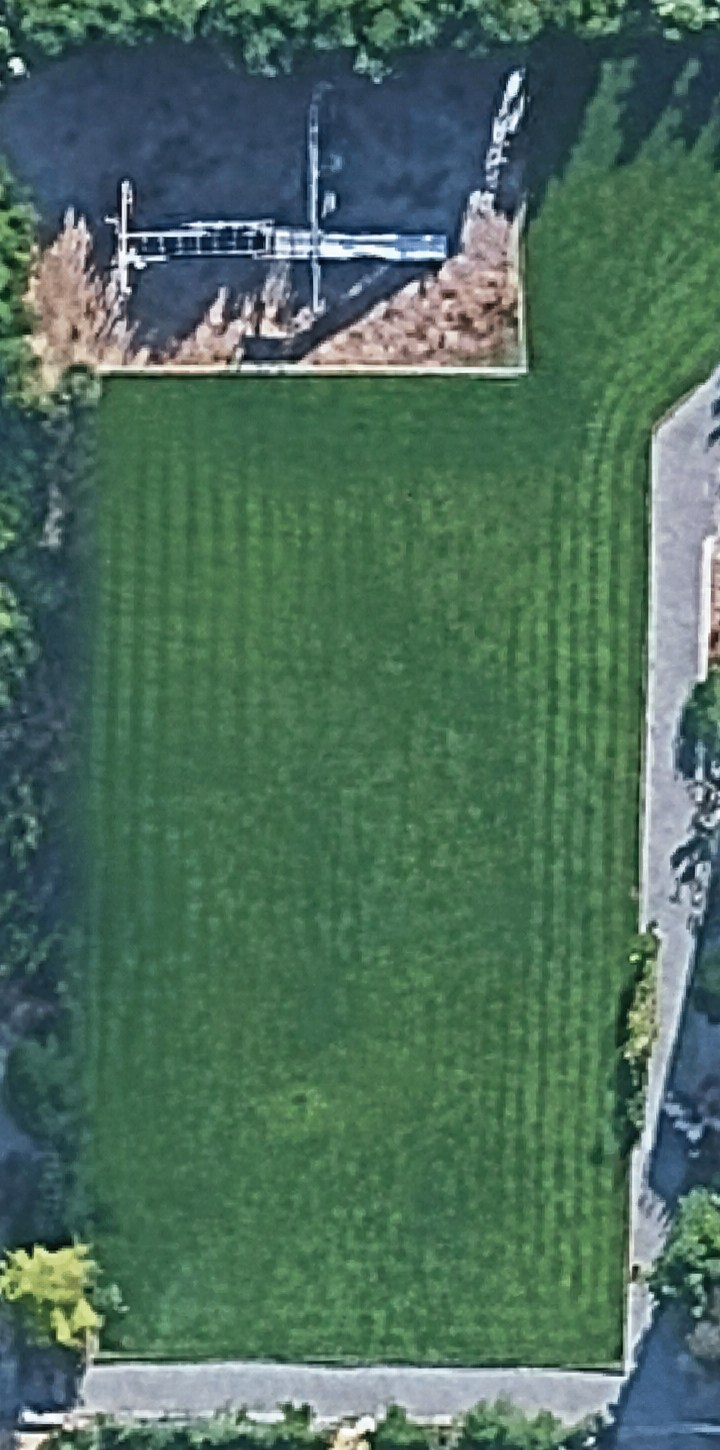
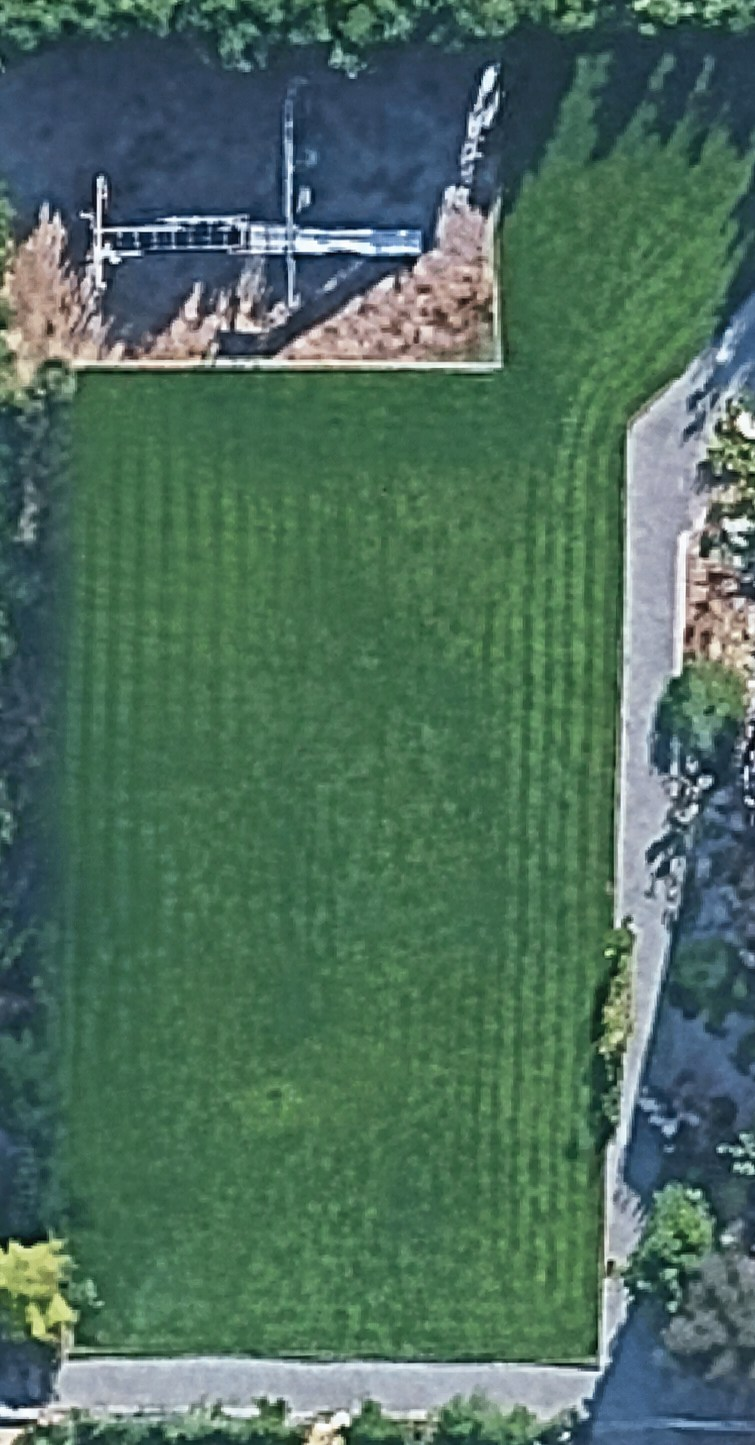
All grass past the goal scores: drop the back line, widen the crop
Re-cropped field.jpg 60px further right so the grass that flares out
beside the swing set is fully in frame, and trimmed a little dead tree
line off the left to pay for it. The line above the swing set is gone;
the goal line stays and now runs the full width of the grass at that
height, which is wider than the yard markers below it.

Landmark constants re-measured for the new framing, and a one-time
migration shifts any play or map saved against the old crop.

diff --git a/index.html b/index.html
@@ -101,10 +101,11 @@
    toward the swing set: left = tree line, right = gravel path / house,
    bottom = the walk behind the quarterback.
 -------------------------------------------------------------------*/
-var IMG = { w: 720, h: 1450 };
+var IMG = { w: 755, h: 1445 };
 
-/* landmarks measured off field.jpg, as fractions of its height/width */
-var F = { back: 0.125, goal: 0.2572, near: 0.9345, left: 0.139, right: 0.889 };
+/* landmarks measured off field.jpg, as fractions of its height/width.
+   There is no back line: every bit of grass past the goal line is a score. */
+var F = { goal: 0.2547, near: 0.9343, left: 0.0993, right: 0.8146 };
 
 var TAU = Math.PI * 2;
 var $ = function(s){ return document.querySelector(s); };
@@ -185,8 +186,8 @@ function redraw(){
   drawQB();
 }
 
-function hline(v, w, alpha, dash){
-  var a = S(F.left - 0.02, v), b = S(F.right + 0.02, v);
+function hline(v, w, alpha, dash, padR){
+  var a = S(F.left - 0.02, v), b = S(F.right + (padR || 0.02), v);
   ctx.save();
   ctx.setLineDash(dash || []);
   ctx.strokeStyle = 'rgba(0,0,0,.45)'; ctx.lineWidth = w + 2;
@@ -215,9 +216,10 @@ function fieldMarks(){
   tag(F.right - 0.09, F.goal + span * 0.75, '5 yd', 0.4);
   tag(F.right - 0.10, F.goal + span * 0.50, '10 yd', 0.4);
   tag(F.right - 0.10, F.goal + span * 0.25, '15 yd', 0.4);
-  hline(F.goal, 2.6, 0.85);
-  tag(F.right - 0.10, F.goal - 0.016, 'GOAL', 0.85, 11);
-  hline(F.back, 1.6, 0.4);
+  /* the yard flares out to the right up by the swing set, so the goal line has
+     to run further than the yard markers do */
+  hline(F.goal, 2.6, 0.85, null, 0.105);
+  tag(F.right - 0.12, F.goal - 0.017, 'GOAL', 0.85, 11);
   /* line of scrimmage follows the quarterback */
   hline(play.qb[1], 1.4, 0.34, [3, 6]);
 }
@@ -520,7 +522,26 @@ document.addEventListener('visibilitychange', function(){
   if (document.visibilityState === 'visible') keepAwake();
 });
 
-loadPlay(); loadMap();
+/* field.jpg was re-cropped wider on the right; anything saved against the old
+   crop has to be shifted or it would sit a couple of yards off the yard. */
+function migrateCrop(){
+  var CROP = '2';
+  try {
+    if (localStorage.getItem('bp.crop') === CROP) return;
+    var mu = function(u){ return (u * 720 - 25) / 755; },
+        mv = function(v){ return (v * 1450 - 5) / 1445; };
+    play.qb = [mu(play.qb[0]), mv(play.qb[1])];
+    play.items.forEach(function(it){
+      if (it.t === 'r') it.pts = it.pts.map(function(p){ return [mu(p[0]), mv(p[1])]; });
+      else it.p = [mu(it.p[0]), mv(it.p[1])];
+    });
+    icons.forEach(function(o){ o.u = mu(o.u); o.v = mv(o.v); });
+    localStorage.setItem('bp.crop', CROP);
+    savePlay(); saveMap();
+  } catch(e){}
+}
+
+loadPlay(); loadMap(); migrateCrop();
 if (bg.complete && bg.naturalWidth){ IMG.w = bg.naturalWidth; IMG.h = bg.naturalHeight; }
 bg.addEventListener('load', function(){
   IMG.w = bg.naturalWidth; IMG.h = bg.naturalHeight; relayout();

diff --git a/README.md b/README.md
@@ -48,9 +48,11 @@ yard, so:
 - **Left** is north: the tree line and the hedge.
 - **Right** is south: the gravel path, the beds, the deck and house.
 - **Behind the QB** is the concrete walk and the garden.
-- The **end zone** is the bark bed under the swing set plus the grass beside it. The
-  goal line is drawn on the bed's near edge, about 20 yards out, with faint 5 / 10 /
-  15 yard references between there and the near end.
+- The **end zone** is everything past the goal line: the bark bed under the swing
+  set and all the grass around it, including the strip that flares out to the right.
+  Every bit of it is a score, so there is no back line — only the goal line, drawn
+  on the near edge of the bed about 20 yards out, with faint 5 / 10 / 15 yard
+  references between there and the near end.
 
 Everything the app stores — routes, markers, the QB, the map icons — is in
 **normalised image coordinates** (0..1 across `field.jpg`). Nothing is in screen
@@ -58,9 +60,11 @@ pixels, so it all stays glued to the yard through rotation and resize, and it
 survives dropping in a newer photo of the same crop.
 
 To re-crop from a fresh satellite image, rotate it the same way and match the
-existing framing, then check the four landmark constants in `F` near the top of the
-script (`back`, `goal`, `near`, `left`, `right`) — they are fractions of the image
-and are what the goal line and yard markers are drawn from.
+existing framing, then re-measure the landmark constants in `F` near the top of the
+script (`goal`, `near`, `left`, `right`) — they are fractions of the image and are
+what the goal line and yard markers are drawn from. Bump the `CROP` stamp in
+`migrateCrop()` so plays and maps saved against the old framing get shifted onto
+the new one instead of silently sitting a couple of yards off.
 
 ## Deploying
 
